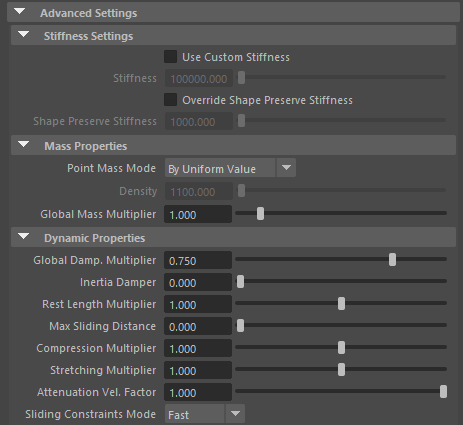
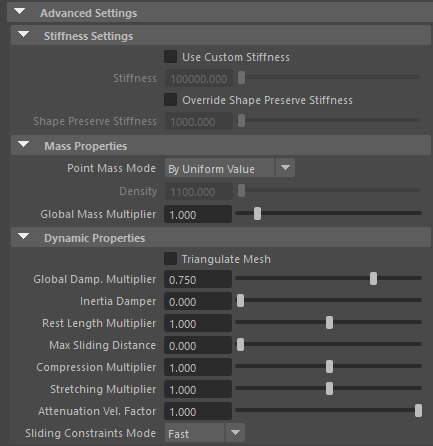
Updated skin docst screenshot and first pass of documentation changes required for issue 1253

diff --git a/docs/maya/skin.md b/docs/maya/skin.md
@@ -73,20 +73,21 @@ The process to create an AdnSkin deformer is:
 #### Dynamic Properties
 | Name | Type | Default | Animatable | Description |
 | :--- | :--- | :------ | :--------- | :---------- |
-| **Global Damping Multiplier**   | Float      | 0.75 | ✓ | Sets the scaling factor applied to the global damping of every point. Has a range of \[0.0, 1.0\]. Upper limit is soft, higher values can be used. |
-| **Inertia Damper**              | Float      | 0.0  | ✓ | Sets the linear damping applied to the dynamics of every point. Has a range of \[0.0, 1.0\]. Upper limit is soft, higher values can be used. |
-| **Rest Length Multiplier**      | Float      | 1.0  | ✓ | Sets the scaling factor applied to the edge lengths at rest. Has a range of \[0.0, 2.0\]. Upper limit is soft, higher values can be used. |
-| **Max Sliding Distance**        | Float      | 0.0  | ✗ | Determines the size of the sliding area. It corresponds to the maximum distance to the closest point on the closest target mesh computed on initialisation. The higher this value is, the higher quality and the lower performance. If the value provided is considered too high for a given target mesh, a warning will be displayed to the user. Has a range of \[0.0, 10.0\]. Upper limit is soft, higher values can be used.
-| **Compression Multiplier**      | Float      | 1.0  | ✓ | Sets the scaling factor applied to the compression resistance of every point. Has a range of \[0.0, 2.0\]. Upper limit is soft, higher values can be used. |
-| **Stretching Multiplier**       | Float      | 1.0  | ✓ | Sets the scaling factor applied to the stretching resistance of every point. Has a range of \[0.0, 2.0\]. Upper limit is soft, higher values can be used. |
-| **Attenuation Velocity Factor** | Float      | 1.0  | ✓ | Sets the weight of the attenuation applied to the velocities of the simulated vertices driven by the *Attenuation Matrix*. Has a range of \[0.0, 1.0\]. Upper limit is soft, higher values can be used. |
-| **Sliding Constraints Mode**    | Enumerator | Fast | ✓ | Defines the mode of execution for the sliding constraints.<ul><li>*Quality* is more accurate, recommended for final results.</li><li>*Fast* provides higher performance, recommended for preview.</li></ul> |
+| **Triangulate Mesh**            | Boolean    | False | ✗ | Use the internally triangulated mesh to build constraints. |
+| **Global Damping Multiplier**   | Float      | 0.75  | ✓ | Sets the scaling factor applied to the global damping of every point. Has a range of \[0.0, 1.0\]. Upper limit is soft, higher values can be used. |
+| **Inertia Damper**              | Float      | 0.0   | ✓ | Sets the linear damping applied to the dynamics of every point. Has a range of \[0.0, 1.0\]. Upper limit is soft, higher values can be used. |
+| **Rest Length Multiplier**      | Float      | 1.0   | ✓ | Sets the scaling factor applied to the edge lengths at rest. Has a range of \[0.0, 2.0\]. Upper limit is soft, higher values can be used. |
+| **Max Sliding Distance**        | Float      | 0.0   | ✗ | Determines the size of the sliding area. It corresponds to the maximum distance to the closest point on the closest target mesh computed on initialisation. The higher this value is, the higher quality and the lower performance. If the value provided is considered too high for a given target mesh, a warning will be displayed to the user. Has a range of \[0.0, 10.0\]. Upper limit is soft, higher values can be used.
+| **Compression Multiplier**      | Float      | 1.0   | ✓ | Sets the scaling factor applied to the compression resistance of every point. Has a range of \[0.0, 2.0\]. Upper limit is soft, higher values can be used. |
+| **Stretching Multiplier**       | Float      | 1.0   | ✓ | Sets the scaling factor applied to the stretching resistance of every point. Has a range of \[0.0, 2.0\]. Upper limit is soft, higher values can be used. |
+| **Attenuation Velocity Factor** | Float      | 1.0   | ✓ | Sets the weight of the attenuation applied to the velocities of the simulated vertices driven by the *Attenuation Matrix*. Has a range of \[0.0, 1.0\]. Upper limit is soft, higher values can be used. |
+| **Sliding Constraints Mode**    | Enumerator | Fast  | ✓ | Defines the mode of execution for the sliding constraints.<ul><li>*Quality* is more accurate, recommended for final results.</li><li>*Fast* provides higher performance, recommended for preview.</li></ul> |
 
 ### Debug Attributes
 | Name | Type | Default | Animatable | Description |
 | :--- | :--- | :------ | :--------- | :---------- |
 | **Debug**       | Boolean      | False            | ✓ | Enable or Disable the debug functionalities in the viewport for the AdnSkin deformer. |
-| **Feature**     | Enumerator   | Hard Constraints | ✓ | A list of debuggable features for this deformer.<ul><li>Hard Constraints: Draw *Hard Constraints* connections from the simulated mesh to the target mesh.</li><li>Shape Preservation: Draw *Shape Preservation* connections between the vertices adjacent to the vertices with this constraint.</li><li>Slide Constraints: Draw *Slide Constraints* connections from the simulated mesh to the target mesh.</li><li>Sliding Surface On Target: Draw outline of triangles covered by the *Max Sliding Distance* of each vertex.</li><li>Soft Constraints: Draw *Soft Constraints* connections from the simulated mesh to the target mesh.</li></ul> |
+| **Feature**     | Enumerator   | Hard Constraints | ✓ | A list of debuggable features for this deformer.<ul><li>Distance Constraints: Draw *Distance Constraint* connections representing the constrained vertex pairs in the simulated mesh.</li><li>Hard Constraints: Draw *Hard Constraints* connections from the simulated mesh to the target mesh.</li><li>Shape Preservation: Draw *Shape Preservation* connections between the vertices adjacent to the vertices with this constraint.</li><li>Slide Constraints: Draw *Slide Constraints* connections from the simulated mesh to the target mesh.</li><li>Sliding Surface On Target: Draw outline of triangles covered by the *Max Sliding Distance* of each vertex.</li><li>Soft Constraints: Draw *Soft Constraints* connections from the simulated mesh to the target mesh.</li></ul> |
 | **Width Scale** | Float        | 3.0              | ✓ | Modifies the width of all lines. |
 | **Color**       | Color Picker |                  | ✓ | Selects the line colour from a colour wheel. Its saturation can be modified using the slider. |
 
@@ -156,6 +157,7 @@ In order to better visualise deformer constraints and attributes in the Maya vie
 
 To enable the debugger the *Debug* checkbox must be marked. To select the specific feature you would like to visualise, choose it from the list provided in *Features*. The features that can be visualised with the debugger in the AdnSkin deformer are:
 
+ - **Distance Constraints**: For each connected vertex pairs forming the constraint a line will be drawn. If the "Triangulate Mesh" option is disabled the debugged lines will align with the edges of the simulated mesh. If the "Triangulate Mesh" option is enabled the debugged lines will align with the edges of the underlying triangulation of the simulated mesh without necessarily being aligned with the edges of the mesh.
  - **Hard Constraints**: For each vertex, a line will be drawn from the simulated mesh vertex to the corresponding point on the target mesh if its *Hard Constraints* weight is greater than 0.0.
  - **Shape Preservation**: For each vertex with a shape preservation weight greater than 0.0, a line will be drawn from each adjacent vertex to the opposite adjacent vertex.
  - **Slide Constraints**: For each vertex, a line will be drawn from the simulated mesh vertex to the corresponding point on the target mesh if its *Slide Constraints* weight is greater than 0.0.s
@@ -170,6 +172,16 @@ To enable the debugger the *Debug* checkbox must be marked. To select the specif
 <figure markdown>
   ![skin editor sliding surface debug](images/skin_debug_slide_surface.png)
   <figcaption><b>Figure 6</b>: In gray the target mesh, in red the simulated skin. Debugger enabled displaying the <i>Sliding Surface</i> coloured in green.</figcaption>
+</figure>
+
+<figure markdown>
+  ![skin editor distance constraint debug](images/skin_dist_constr_debug.png)
+  <figcaption><b>Figure 7</b>: In gray the target mesh, in red the simulated skin. Debugger enabled displaying the <i>Distance Constraints</i> coloured in purple with "Triangulate Mesh" option disabled (Left) and enabled (Right).</figcaption>
+</figure>
+
+<figure markdown>
+  ![skin editor shape preservation constraint debug](images/skin_shape_preserve_constr_debug.png)
+  <figcaption><b>Figure 8</b>: In gray the target mesh, in red the simulated skin. Debugger enabled displaying the <i>Shape Preservation Constraints</i> coloured in purple with "Triangulate Mesh" option disabled (Left) and enabled (Right).</figcaption>
 </figure>
 
 ## Advanced
@@ -190,5 +202,5 @@ Once the AdnSkin deformer is created, it is possible to add and remove new targe
 
 <figure markdown>
   ![skin adding multiple targets](images/skin_add_multiple_targets.png)
-  <figcaption><b>Figure 7</b>: Addition of multiple targets (e.g. Adding multiple muscle targets to a fascia/fat/skin simulation).</figcaption>
+  <figcaption><b>Figure 9</b>: Addition of multiple targets (e.g. Adding multiple muscle targets to a fascia/fat/skin simulation).</figcaption>
 </figure>

diff --git a/docs/maya/ribbon.md b/docs/maya/ribbon.md
@@ -75,21 +75,22 @@ Follow this steps to create an AndRibbonMuscle deformer:
 #### Dynamic Properties
 | Name | Type | Default | Animatable | Description |
 | :--- | :--- | :------ | :--------- | :---------- |
-| **Global Damping Multiplier**   | Float      | 0.75 | ✓ | Sets the scaling factor applied to the global damping of every point. Has a range of \[0.0, 1.0\]. Upper limit is soft, higher values can be used. |
-| **Inertia Damper**              | Float      | 0.0  | ✓ | Sets the linear damping applied to the dynamics of every point. Has a range of \[0.0, 1.0\]. Upper limit is soft, higher values can be used. |
-| **Rest Length Multiplier**      | Float      | 1.0  | ✓ | Sets the scaling factor applied to the edge lengths at rest. Has a range of \[0.0, 2.0\]. Upper limit is soft, higher values can be used. |
-| **Max Sliding Distance**        | Float      | 0.0  | ✗ | Determines the size of the sliding area. It corresponds to the maximum distance to the closest point on the target mesh computed on initialisation. The higher this value is, the higher quality and the lower performance. If the value provided is considered too high for a given target mesh, a warning will be displayed to the user. Has a range of \[0.0, 10.0\]. Upper limit is soft, higher values can be used. |
-| **Compression Multiplier**      | Float      | 1.0  | ✓ | Sets the scaling factor applied to the compression resistance of every point. Has a range of \[0.0, 2.0\]. Upper limit is soft, higher values can be used. |
-| **Stretching Multiplier**       | Float      | 1.0  | ✓ | Sets the scaling factor applied to the stretching resistance of every point. Has a range of \[0.0, 2.0\]. Upper limit is soft, higher values can be used. |
-| **Attenuation Velocity Factor** | Float      | 1.0  | ✓ | Sets the weight of the attenuation applied to the velocities of the simulated vertices driven by the *Attenuation Matrix*. Has a range of \[0.0, 1.0\]. Upper limit is soft, higher values can be used. |
-| **Hard Attachments**            | Boolean    | True | ✓ | If enabled, attachment constraints will force the vertices to stick to the target completely. |
-| **Sliding Constraints Mode**    | Enumerator | Fast | ✓ | Defines the mode of execution for the slide on geometry constraints.<ul><li>*Quality* is more accurate, recommended for final results.</li><li>*Fast* provides higher performance, recommended for preview.</li></ul> |
+| **Triangulate Mesh**            | Boolean    | False | ✗ | Use the internally triangulated mesh to build constraints. |
+| **Global Damping Multiplier**   | Float      | 0.75  | ✓ | Sets the scaling factor applied to the global damping of every point. Has a range of \[0.0, 1.0\]. Upper limit is soft, higher values can be used. |
+| **Inertia Damper**              | Float      | 0.0   | ✓ | Sets the linear damping applied to the dynamics of every point. Has a range of \[0.0, 1.0\]. Upper limit is soft, higher values can be used. |
+| **Rest Length Multiplier**      | Float      | 1.0   | ✓ | Sets the scaling factor applied to the edge lengths at rest. Has a range of \[0.0, 2.0\]. Upper limit is soft, higher values can be used. |
+| **Max Sliding Distance**        | Float      | 0.0   | ✗ | Determines the size of the sliding area. It corresponds to the maximum distance to the closest point on the target mesh computed on initialisation. The higher this value is, the higher quality and the lower performance. If the value provided is considered too high for a given target mesh, a warning will be displayed to the user. Has a range of \[0.0, 10.0\]. Upper limit is soft, higher values can be used. |
+| **Compression Multiplier**      | Float      | 1.0   | ✓ | Sets the scaling factor applied to the compression resistance of every point. Has a range of \[0.0, 2.0\]. Upper limit is soft, higher values can be used. |
+| **Stretching Multiplier**       | Float      | 1.0   | ✓ | Sets the scaling factor applied to the stretching resistance of every point. Has a range of \[0.0, 2.0\]. Upper limit is soft, higher values can be used. |
+| **Attenuation Velocity Factor** | Float      | 1.0   | ✓ | Sets the weight of the attenuation applied to the velocities of the simulated vertices driven by the *Attenuation Matrix*. Has a range of \[0.0, 1.0\]. Upper limit is soft, higher values can be used. |
+| **Hard Attachments**            | Boolean    | True  | ✓ | If enabled, attachment constraints will force the vertices to stick to the target transformation completely. |
+| **Sliding Constraints Mode**    | Enumerator | Fast  | ✓ | Defines the mode of execution for the slide on geometry constraints.<ul><li>*Quality* is more accurate, recommended for final results.</li><li>*Fast* provides higher performance, recommended for preview.</li></ul> |
 
 ### Debug Attributes
 | Name | Type | Default | Animatable | Description |
 | :--- | :--- | :------ | :--------- | :---------- |
 | **Debug**       | Boolean      | False         | ✓ | Enable or Disable the debug functionalities in the viewport for the AdnRibbonMuscle deformer. |
-| **Feature**     | Enumerator   | Muscle Fibers | ✓ | A list of debuggable features for this deformer. <ul><li>Attachments To Geometry: Draw *Attachment To Geometry Constraints* connections from the simulated mesh to the geometry targets.</li><li>Attachments To Transform: Draw *Attachment To Transform Constraints* connections from the simulated mesh to the transform targets.</li><li>Muscle Fibers: Draw *Muscle Fibers* fiber directions on the simulated mesh's surface.</li><li>Shape Preservation: Draw *Shape Preservation* connections between the vertices adjacent to the vertices with this constraint.</li><li>Slide On Geometry: Draw *Slide On Geometry Constraints* connections from the simulated mesh to the geometry targets the simulated mesh is sliding on.</li><li>Slide On Segment: Draw *Slide On Segment Constraints* connections from the simulated mesh to the segment the simulated mesh is sliding on.</li></ul> |
+| **Feature**     | Enumerator   | Muscle Fibers | ✓ | A list of debuggable features for this deformer. <ul><li>Attachments To Geometry: Draw *Attachment To Geometry Constraints* connections from the simulated mesh to the geometry targets.</li><li>Attachments To Transform: Draw *Attachment To Transform Constraints* connections from the simulated mesh to the transform targets.</li><li>Fiber Constraints: Draw *Fiber Constraint* connections representing the constrained vertex pairs in the simulated mesh.</li><li>Muscle Fibers: Draw *Muscle Fibers* fiber directions on the simulated mesh's surface.</li><li>Shape Preservation: Draw *Shape Preservation* connections between the vertices adjacent to the vertices with this constraint.</li><li>Slide On Geometry: Draw *Slide On Geometry Constraints* connections from the simulated mesh to the geometry targets the simulated mesh is sliding on.</li><li>Slide On Segment: Draw *Slide On Segment Constraints* connections from the simulated mesh to the segment the simulated mesh is sliding on.</li></ul> |
 | **Width Scale** | Float        | 1.0           | ✓ | Modifies the width of all lines. |
 | **Color**       | Color Picker |               | ✓ | Selects the line colour from a colour wheel. Its saturation can be modified using the slider. |
 | **Fiber Scale** | Float        | 3.0           | ✓ | The scale can be modified to set a custom fiber length. |
@@ -182,6 +183,7 @@ To enable the debugger the *Debug* checkbox must be marked. To select the specif
 
  - **Attachments To Geometry**: For each vertex with a geometry attachment constraint weight greater than 0.0, a line will be drawn from the mesh vertex to its respective geometry target closest point at rest.
  - **Attachments To Transform**: For each vertex with a transform attachment constraint weight greater than 0.0, a line will be drawn from the mesh vertex to its respective transform target.
+  - **Fiber Constraints**: For each connected vertex pairs forming the constraint a line will be drawn. If the "Triangulate Mesh" option is disabled the debugged lines will align with the edges of the simulated mesh. If the "Triangulate Mesh" option is enabled the debugged lines will align with the edges of the underlying triangulation of the simulated mesh without necessarily being aligned with the edges of the mesh.
  - **Muscle Fibers**: For each vertex, a line will be drawn showing the direction of the muscle fibers.
  - **Shape Preservation**: For each vertex with a shape preservation weight greater than 0.0, a line will be drawn from each adjacent vertex to the opposite adjacent vertex.
  - **Slide On Geometry**: If the *Max Sliding Distance* value is greater than 0.0, for each vertex with a slide on geometry weight greater than 0.0, a line will be drawn from the mesh vertex to the closest point on its respective geometry target.

diff --git a/docs/maya/muscle.md b/docs/maya/muscle.md
@@ -77,21 +77,22 @@ To create an AdnMuscle, follow these steps:
 #### Dynamic Properties
 | Name | Type | Default | Animatable | Description |
 | :--- | :--- | :------ | :--------- | :---------- |
-| **Global Damping Multiplier**   | Float      | 0.75 | ✓ | Sets the scaling factor applied to the global damping of every point. Has a range of \[0.0, 1.0\]. Upper limit is soft, higher values can be used. |
-| **Inertia Damper**              | Float      | 0.0  | ✓ | Sets the linear damping applied to the dynamics of every point. Has a range of \[0.0, 1.0\]. Upper limit is soft, higher values can be used. |
-| **Rest Length Multiplier**      | Float      | 1.0  | ✓ | Sets the scaling factor applied to the edge lengths at rest. Has a range of \[0.0, 2.0\]. Upper limit is soft, higher values can be used. |
-| **Max Sliding Distance**        | Float      | 0.0  | ✗ | Determines the size of the sliding area. It corresponds to the maximum distance to the closest point on the target mesh computed on initialisation. The higher this value is, the higher quality and the lower performance. If the value provided is considered too high for a given target mesh, a warning will be displayed to the user. Has a range of \[0.0, 10.0\]. Upper limit is soft, higher values can be used. |
-| **Compression Multiplier**      | Float      | 1.0  | ✓ | Sets the scaling factor applied to the compression resistance of every point. Has a range of \[0.0, 2.0\]. Upper limit is soft, higher values can be used. |
-| **Stretching Multiplier**       | Float      | 1.0  | ✓ | Sets the scaling factor applied to the stretching resistance of every point. Has a range of \[0.0, 2.0\]. Upper limit is soft, higher values can be used. |
-| **Attenuation Velocity Factor** | Float      | 1.0  | ✓ | Sets the weight of the attenuation applied to the velocities of the simulated vertices driven by the *Attenuation Matrix*. Has a range of \[0.0, 1.0\]. Upper limit is soft, higher values can be used. |
-| **Hard Attachments**            | Boolean    | True | ✓ | If enabled, attachment constraints will force the vertices to stick to target transformation completely. |
-| **Sliding Constraints Mode**    | Enumerator | Fast | ✓ | Defines the mode of execution for the slide on geometry constraints.<ul><li>*Quality* is more accurate, recommended for final results.</li><li>*Fast* provides higher performance, recommended for preview.</li></ul> |
+| **Triangulate Mesh**            | Boolean    | False | ✗ | Use the internally triangulated mesh to build constraints. |
+| **Global Damping Multiplier**   | Float      | 0.75  | ✓ | Sets the scaling factor applied to the global damping of every point. Has a range of \[0.0, 1.0\]. Upper limit is soft, higher values can be used. |
+| **Inertia Damper**              | Float      | 0.0   | ✓ | Sets the linear damping applied to the dynamics of every point. Has a range of \[0.0, 1.0\]. Upper limit is soft, higher values can be used. |
+| **Rest Length Multiplier**      | Float      | 1.0   | ✓ | Sets the scaling factor applied to the edge lengths at rest. Has a range of \[0.0, 2.0\]. Upper limit is soft, higher values can be used. |
+| **Max Sliding Distance**        | Float      | 0.0   | ✗ | Determines the size of the sliding area. It corresponds to the maximum distance to the closest point on the target mesh computed on initialisation. The higher this value is, the higher quality and the lower performance. If the value provided is considered too high for a given target mesh, a warning will be displayed to the user. Has a range of \[0.0, 10.0\]. Upper limit is soft, higher values can be used. |
+| **Compression Multiplier**      | Float      | 1.0   | ✓ | Sets the scaling factor applied to the compression resistance of every point. Has a range of \[0.0, 2.0\]. Upper limit is soft, higher values can be used. |
+| **Stretching Multiplier**       | Float      | 1.0   | ✓ | Sets the scaling factor applied to the stretching resistance of every point. Has a range of \[0.0, 2.0\]. Upper limit is soft, higher values can be used. |
+| **Attenuation Velocity Factor** | Float      | 1.0   | ✓ | Sets the weight of the attenuation applied to the velocities of the simulated vertices driven by the *Attenuation Matrix*. Has a range of \[0.0, 1.0\]. Upper limit is soft, higher values can be used. |
+| **Hard Attachments**            | Boolean    | True  | ✓ | If enabled, attachment constraints will force the vertices to stick to the target transformation completely. |
+| **Sliding Constraints Mode**    | Enumerator | Fast  | ✓ | Defines the mode of execution for the slide on geometry constraints.<ul><li>*Quality* is more accurate, recommended for final results.</li><li>*Fast* provides higher performance, recommended for preview.</li></ul> |
 
 ### Debug Attributes
 | Name | Type | Default | Animatable | Description |
 | :--- | :--- | :------ | :--------- | :---------- |
 | **Debug**       | Boolean      | False         | ✓ | Enable or Disable the debug functionalities in the viewport for the AdnMuscle deformer. |
-| **Feature**     | Enumerator   | Muscle Fibers | ✓ | A list of debuggable features for this deformer. <ul><li>Attachments To Geometry: Draw *Attachment To Geometry Constraints* connections from the simulated mesh to the geometry targets.</li><li>Attachments To Transform: Draw *Attachment To Transform Constraints* connections from the simulated mesh to the transform targets.</li><li>Muscle Fibers: Draw *Muscle Fibers* fiber directions on the simulated mesh's surface.</li><li>Shape Preservation: Draw *Shape Preservation* connections between the vertices adjacent to the vertices with this constraint.</li><li>Slide On Geometry: Draw *Slide On Geometry Constraints* connections from the simulated mesh to the geometry targets the simulated mesh is sliding on.</li><li>Slide On Segment: Draw *Slide On Segment Constraints* connections from the simulated mesh to the segment the simulated mesh is sliding on.</li></ul> |
+| **Feature**     | Enumerator   | Muscle Fibers | ✓ | A list of debuggable features for this deformer. <ul><li>Attachments To Geometry: Draw *Attachment To Geometry Constraints* connections from the simulated mesh to the geometry targets.</li><li>Attachments To Transform: Draw *Attachment To Transform Constraints* connections from the simulated mesh to the transform targets.</li><li>Fiber Constraints: Draw *Fiber Constraint* connections representing the constrained vertex pairs in the simulated mesh.</li><li>Muscle Fibers: Draw *Muscle Fibers* fiber directions on the simulated mesh's surface.</li><li>Shape Preservation: Draw *Shape Preservation* connections between the vertices adjacent to the vertices with this constraint.</li><li>Slide On Geometry: Draw *Slide On Geometry Constraints* connections from the simulated mesh to the geometry targets the simulated mesh is sliding on.</li><li>Slide On Segment: Draw *Slide On Segment Constraints* connections from the simulated mesh to the segment the simulated mesh is sliding on.</li></ul> |
 | **Width Scale** | Float        | 1.0           | ✓ | Modifies the width of all lines. |
 | **Color**       | Color Picker |               | ✓ | Selects the line coluor from a colour wheel. Its saturation can be modified using the slider. |
 | **Fiber Scale** | Float        | 3.0           | ✓ | The scale can be modified to set a custom fiber length. |
@@ -184,6 +185,7 @@ To enable the debugger the *Debug* checkbox must be marked. To select the specif
 
  - **Attachments To Geometry**: For each vertex with a geometry attachment constraint weight greater than 0.0, a line will be drawn from the mesh vertex to its respective geometry target closest point at rest.
  - **Attachments To Transform**: For each vertex with a transform attachment constraint weight greater than 0.0, a line will be drawn from the mesh vertex to its respective transform target.
+  - **Distance Constraints**: For each connected vertex pairs forming the constraint a line will be drawn. If the "Triangulate Mesh" option is disabled the debugged lines will align with the edges of the simulated mesh. If the "Triangulate Mesh" option is enabled the debugged lines will align with the edges of the underlying triangulation of the simulated mesh without necessarily being aligned with the edges of the mesh.
  - **Muscle Fibers**: For each vertex, a line will be drawn showing the direction of the muscle fibers.
  - **Shape Preservation**: For each vertex with a shape preservation weight greater than 0.0, a line will be drawn from each adjacent vertex to the opposite adjacent vertex.
  - **Slide On Geometry**: If the *Max Sliding Distance* value is greater than 0.0, for each vertex with a slide on geometry weight greater than 0.0, a line will be drawn from the mesh vertex to the closest point on its respective geometry target.

diff --git a/docs/maya/simshape.md b/docs/maya/simshape.md
@@ -106,12 +106,13 @@ To remove any of these meshes from AdnSimshape follow this procedure:
 #### Dynamic Properties
 | Name | Type | Default | Animatable | Description |
 | :--- | :--- | :------ | :--------- | :---------- |
-| **Global Damping Multiplier**   | Float | 0.75 | ✓ | Sets the scaling factor applied to the global damping of every point. Has a range of \[0.0, 1.0\]. Upper limit is soft, higher values can be used. |
-| **Inertia Damper**              | Float | 0.0  | ✓ | Sets the linear damping applied to the dynamics of every point. Has a range of \[0.0, 1.0\]. Upper limit is soft, higher values can be used. |
-| **Rest Length Multiplier**      | Float | 1.0  | ✓ | Sets the scaling factor applied to the edge lengths at rest. Has a range of \[0.0, 2.0\]. Upper limit is soft, higher values can be used. |
-| **Compression Multiplier**      | Float | 1.0  | ✓ | Sets the scaling factor applied to the compression resistance of every point. Has a range of \[0.0, 2.0\]. Upper limit is soft, higher values can be used. |
-| **Stretching Multiplier**       | Float | 1.0  | ✓ | Sets the scaling factor applied to the stretching resistance of every point. Has a range of \[0.0, 2.0\]. Upper limit is soft, higher values can be used. |
-| **Attenuation Velocity Factor** | Float | 1.0  | ✓ | Sets the weight of the attenuation applied to the velocities of the simulated vertices driven by the *Attenuation Matrix*. Has a range of \[0.0, 1.0\]. Upper limit is soft, higher values can be used. |
+| **Triangulate Mesh**            | Boolean | False | ✗ | Use the internally triangulated mesh to build constraints. |
+| **Global Damping Multiplier**   | Float   | 0.75  | ✓ | Sets the scaling factor applied to the global damping of every point. Has a range of \[0.0, 1.0\]. Upper limit is soft, higher values can be used. |
+| **Inertia Damper**              | Float   | 0.0   | ✓ | Sets the linear damping applied to the dynamics of every point. Has a range of \[0.0, 1.0\]. Upper limit is soft, higher values can be used. |
+| **Rest Length Multiplier**      | Float   | 1.0   | ✓ | Sets the scaling factor applied to the edge lengths at rest. Has a range of \[0.0, 2.0\]. Upper limit is soft, higher values can be used. |
+| **Compression Multiplier**      | Float   | 1.0   | ✓ | Sets the scaling factor applied to the compression resistance of every point. Has a range of \[0.0, 2.0\]. Upper limit is soft, higher values can be used. |
+| **Stretching Multiplier**       | Float   | 1.0   | ✓ | Sets the scaling factor applied to the stretching resistance of every point. Has a range of \[0.0, 2.0\]. Upper limit is soft, higher values can be used. |
+| **Attenuation Velocity Factor** | Float   | 1.0   | ✓ | Sets the weight of the attenuation applied to the velocities of the simulated vertices driven by the *Attenuation Matrix*. Has a range of \[0.0, 1.0\]. Upper limit is soft, higher values can be used. |
 
 #### Collision Settings
 | Name | Type | Default | Animatable | Description |
@@ -141,7 +142,7 @@ To remove any of these meshes from AdnSimshape follow this procedure:
 | Name | Type | Default | Animatable | Description |
 | :--- | :--- | :------ | :--------- | :---------- |
 | **Debug**       | Boolean      | False                       | ✓ | Enable or Disable the debug functionalities in the viewport for the AdnSimshape deformer. |
-| **Feature**     | Enumerator   | Slide Collision Constraints | ✓ | A list of debuggable features for this deformer.<ul><li>Muscle Fibers: Draw *Muscle Fibers* on the simulated mesh.</li><li>Shape Preservation: Draw *Shape Preservation* connections between the vertices adjacent to the vertices with this constraint.</li><li>Slide Collision Constraints: Draw *Slide Collision Constraints* connections from the simulated mesh to the collider mesh.</li><li>Slide Surface On Collider: Draw outline of triangles covered by the *Max Sliding Distance* of each vertex.</li><ul> |
+| **Feature**     | Enumerator   | Slide Collision Constraints | ✓ | A list of debuggable features for this deformer.<ul><li>Distance Constraints: Draw *Distance Constraint* connections representing the constrained vertex pairs in the simulated mesh.</li><li>Muscle Fibers: Draw *Muscle Fibers* on the simulated mesh.</li><li>Shape Preservation: Draw *Shape Preservation* connections between the vertices adjacent to the vertices with this constraint.</li><li>Slide Collision Constraints: Draw *Slide Collision Constraints* connections from the simulated mesh to the collider mesh.</li><li>Slide Surface On Collider: Draw outline of triangles covered by the *Max Sliding Distance* of each vertex.</li><ul> |
 | **Width Scale** | Float        | 3.0                         | ✓ | Modifies the width of all lines. |
 | **Color**       | Color Picker |                             | ✓ | Selects the line colour from a colour wheel. Its saturation can be modified using the slider. |
 | **Fiber Scale** | Float        | 3.0                         | ✓ | The scale can be modified to set a custom fiber length. |
